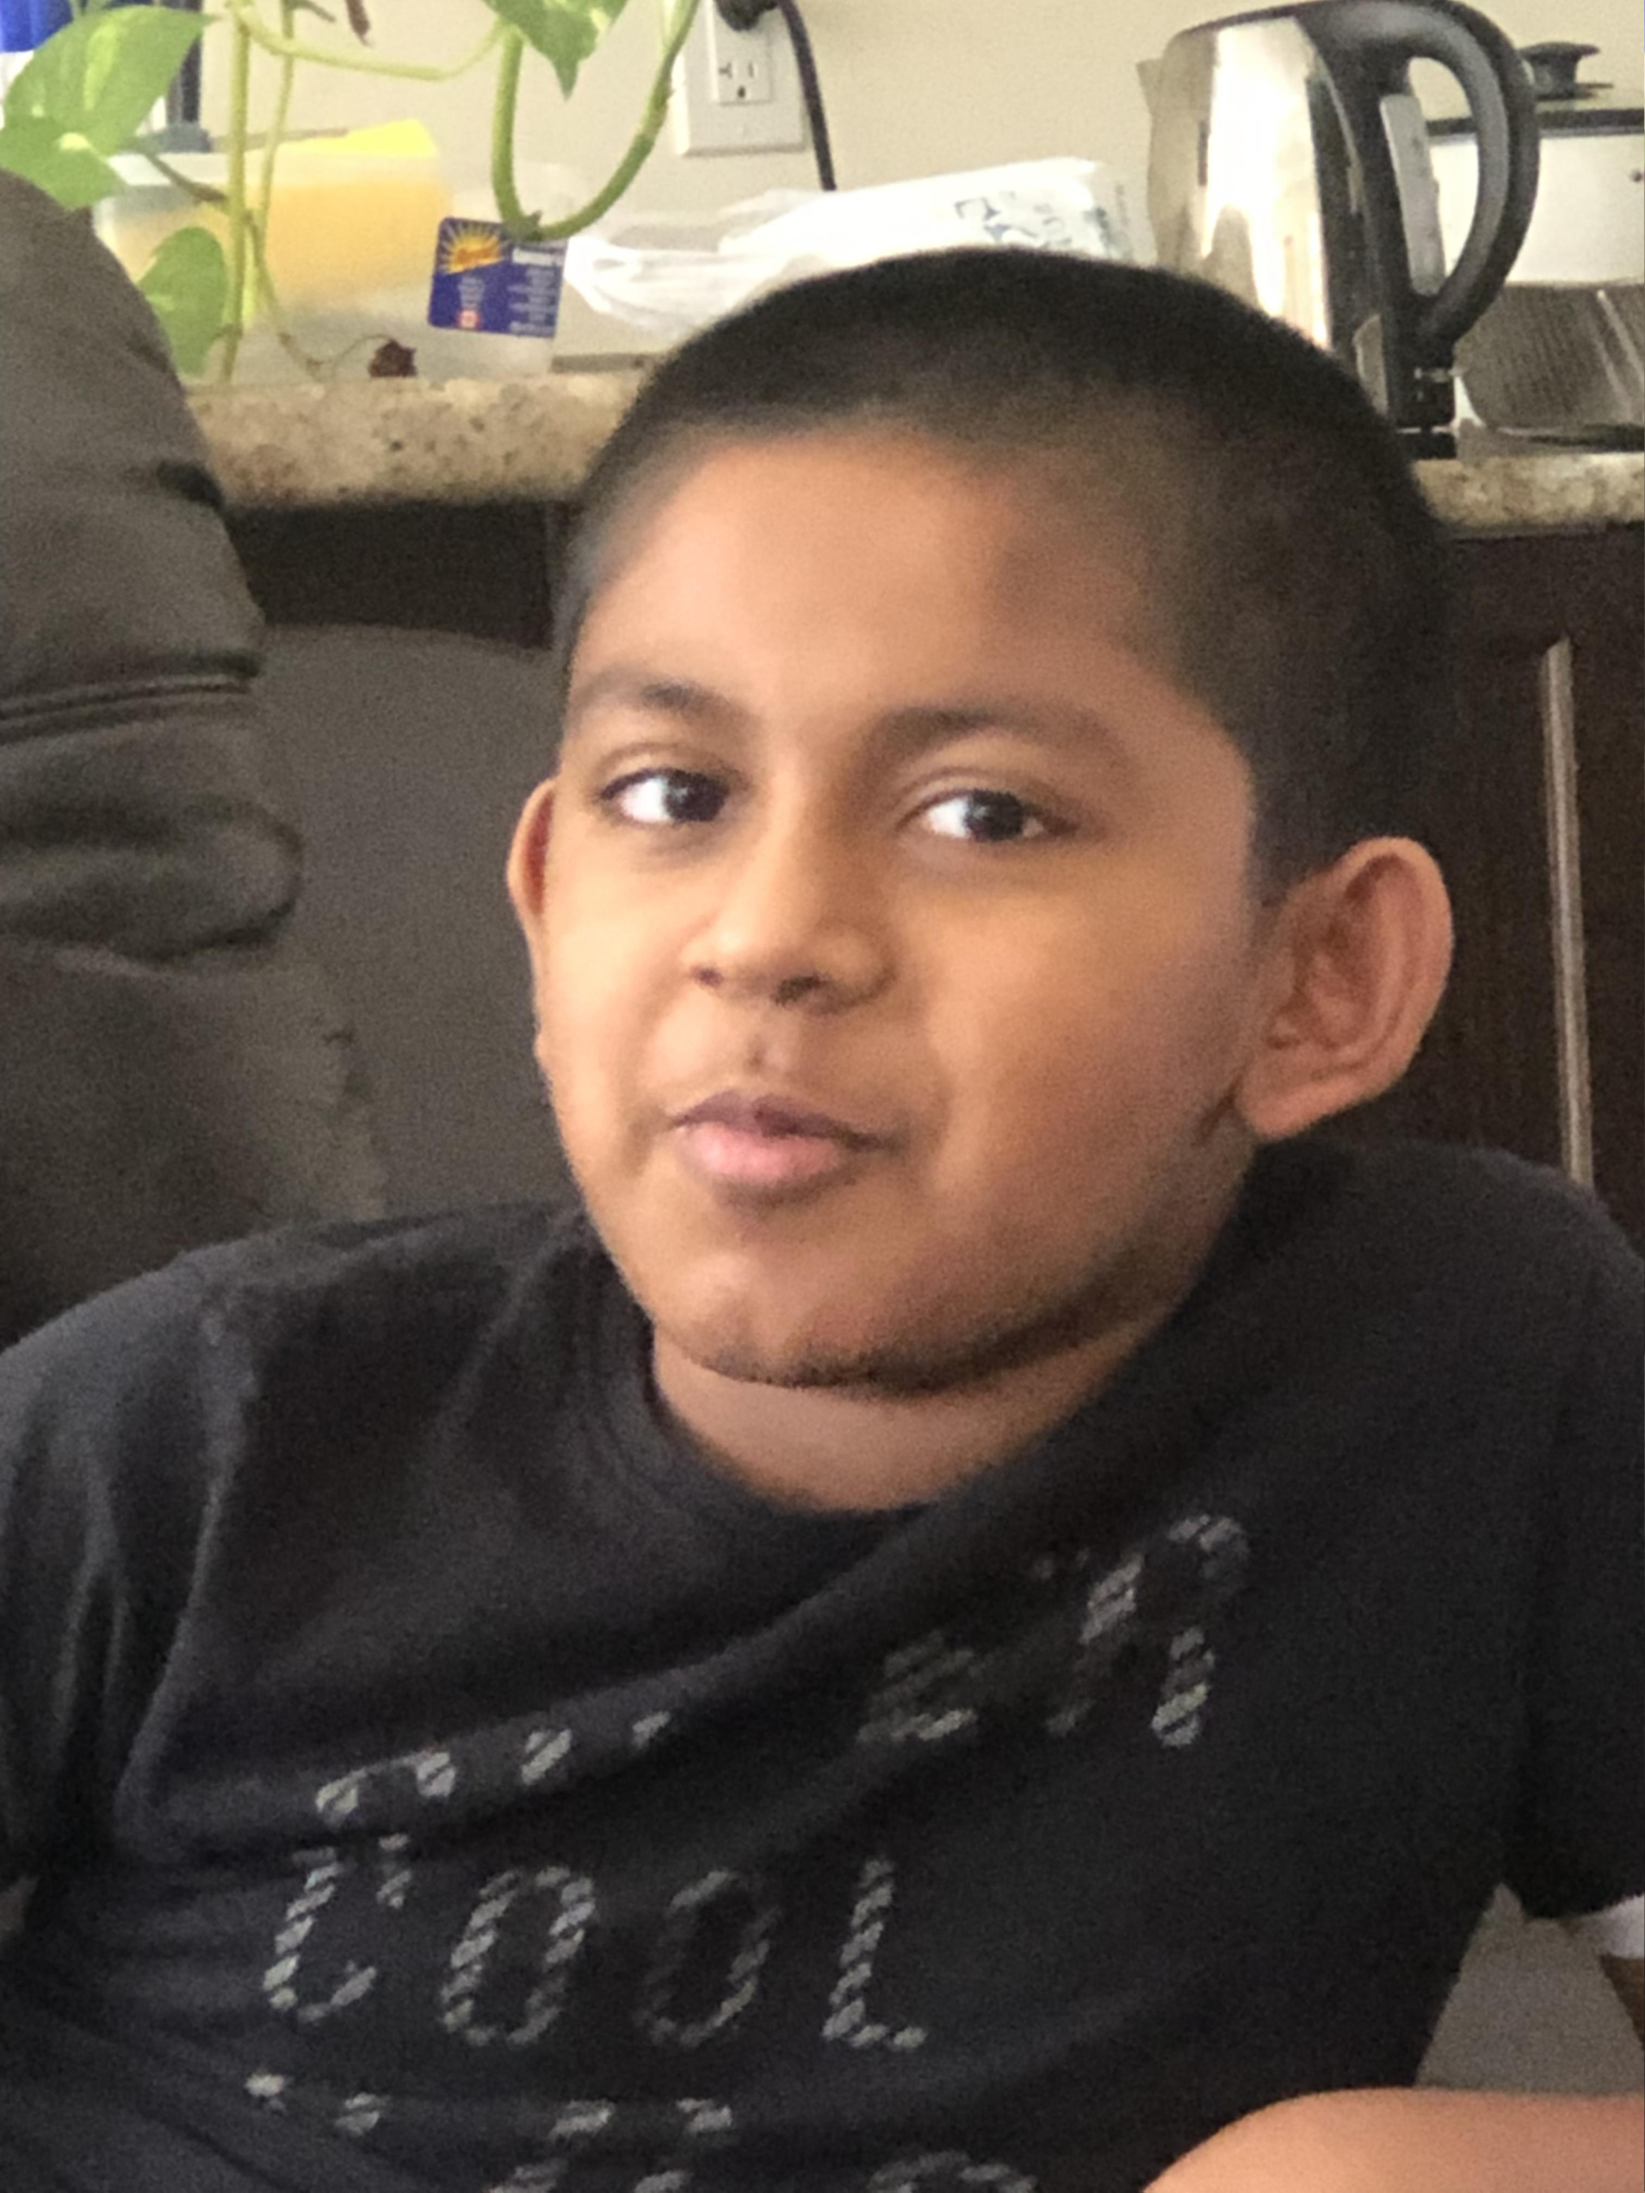
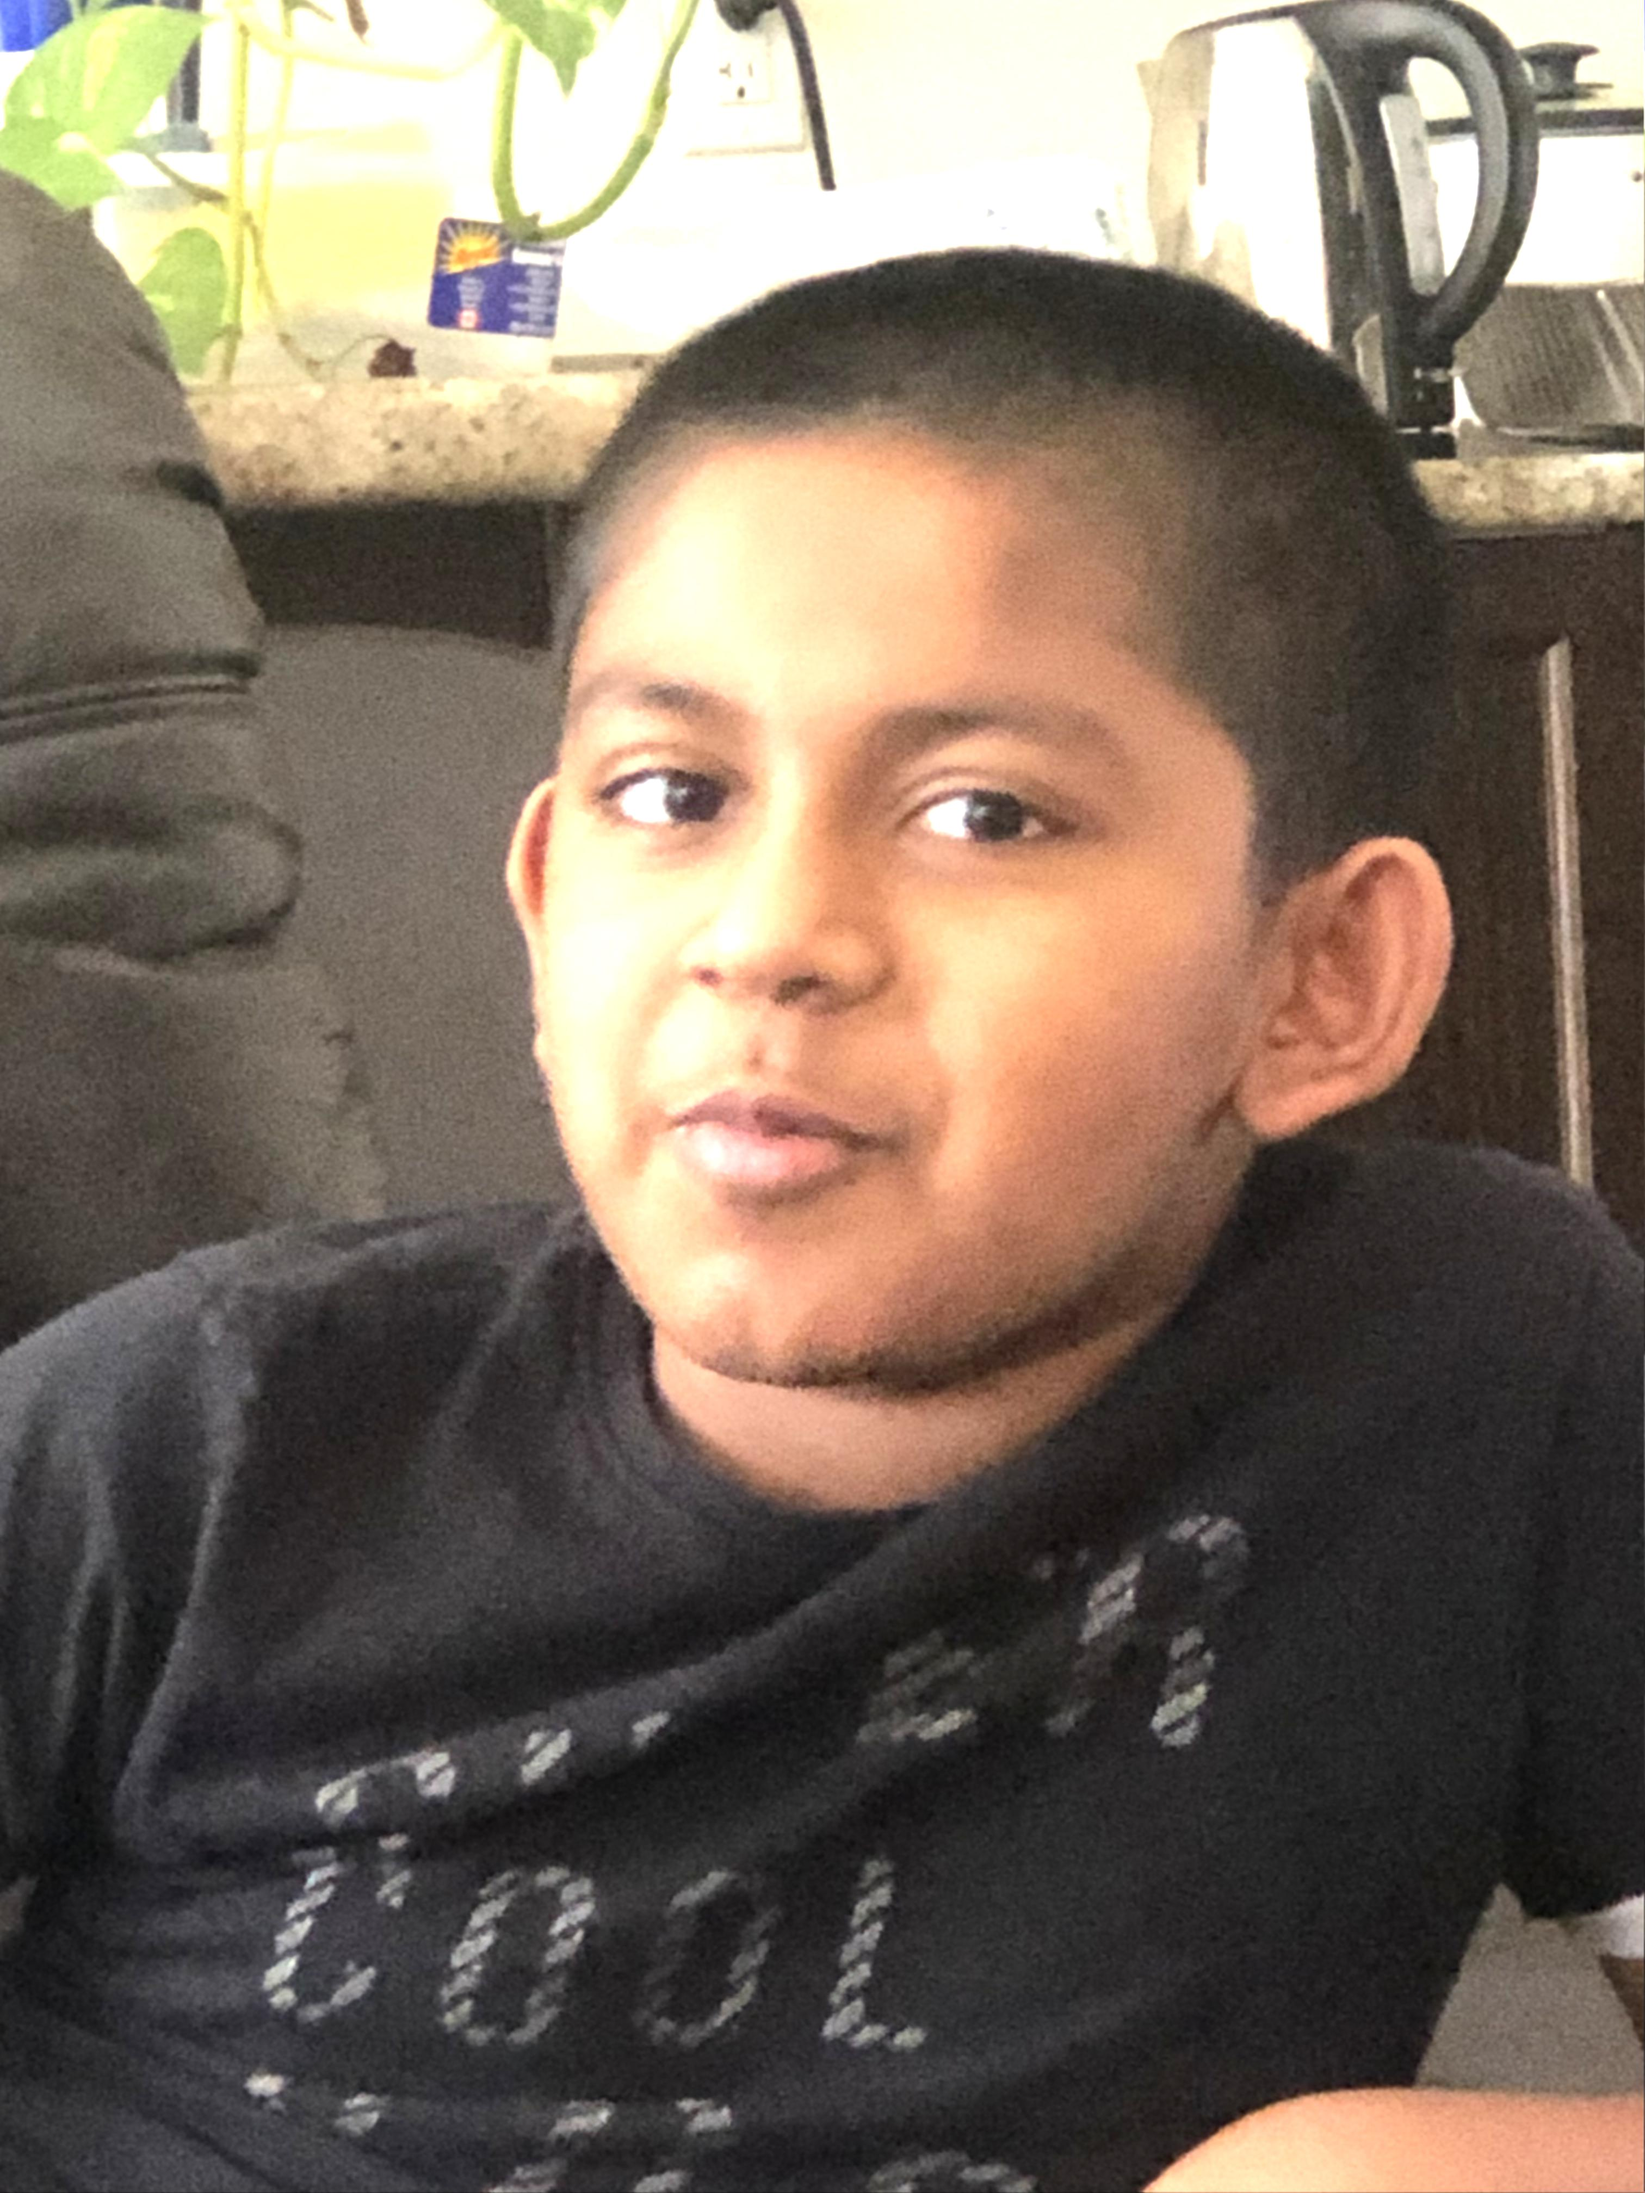
test caused subject to become brighter

diff --git a/filters.py b/filters.py
@@ -104,3 +104,7 @@ def blur_filter(image):
         data.append(average_tuple)
 
     footer(image, data, "blur_filter")
+
+# results:
+    # 3x3: caused paleness
+    # 4x4 caused brightness
